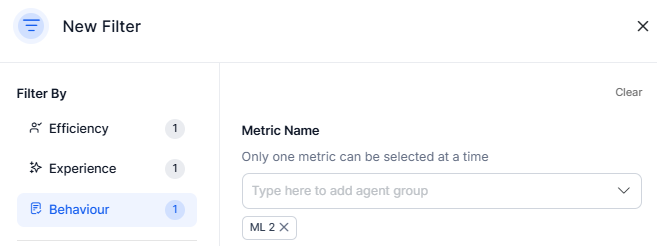
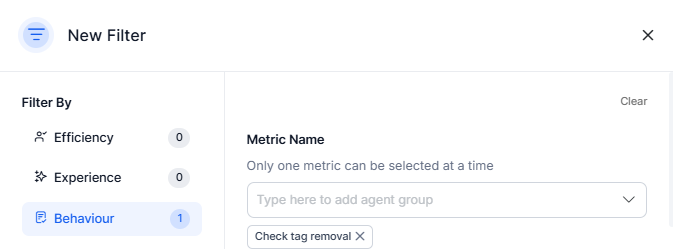
Image updated

diff --git a/docs/xo/quality-management/analyze/conversation-mining.md b/docs/xo/quality-management/analyze/conversation-mining.md
@@ -219,16 +219,16 @@ Note that the customer churn is calculated once per interaction. Customer churn 
 ##### Escalation
 This detects the number of escalations raised to the Supervisor by a customer.
 
-#### Filter by Behavior
+#### Filter by Behaviour
 
 * **Metric Name**
 
-This filter allows you to view interactions based on specific evaluation metrics, with options to filter by **Pass** or **Fail** using radio buttons. You can select an evaluation metric from a drop-down list to apply the filter.    
+This filter allows you to view interactions based on a specific evaluation metric, which the user can filter by selecting Pass or Fail options. The selected metric appears as a tag below the input field, which you can remove by clicking the cross button to hide the Metric Qualification field. When you access the Conversation Mining page through the Adherence Heatmap, the filter settings are automatically applied.  
 <img src="../conversation-mining/images/metric-name.png" alt="Empathy Score" title="Empathy Score" style="border: 1px solid gray; zoom:80%;">
 
 **Metric Qualification** 
 
-The selected evaluation metric displays as a tag below the input field, which you can clear by clicking a cross button. When accessing the conversation mining page from the adherence heatmap, the filter selections are applied automatically. If queues are selected, only evaluation metrics related to those queues' forms are displayed. The filter retrieves interactions where the selected metric applies and is part of the relevant queue’s form. It allows you to view interactions where metrics have either failed or adhered, with the following qualifications displayed as radio buttons.  
+This filter shows the Pass or Fail options based on any queues selected in the Metric Name filter. Only evaluation metrics associated with forms in those selected queues get displayed. The filter retrieves interactions where the selected metric is relevant and part of the corresponding queue's form.   
 <img src="../conversation-mining/images/metric-qualification.png" alt="Empathy Score" title="Empathy Score" style="border: 1px solid gray; zoom:80%;">
 
 **Empathy Score**
